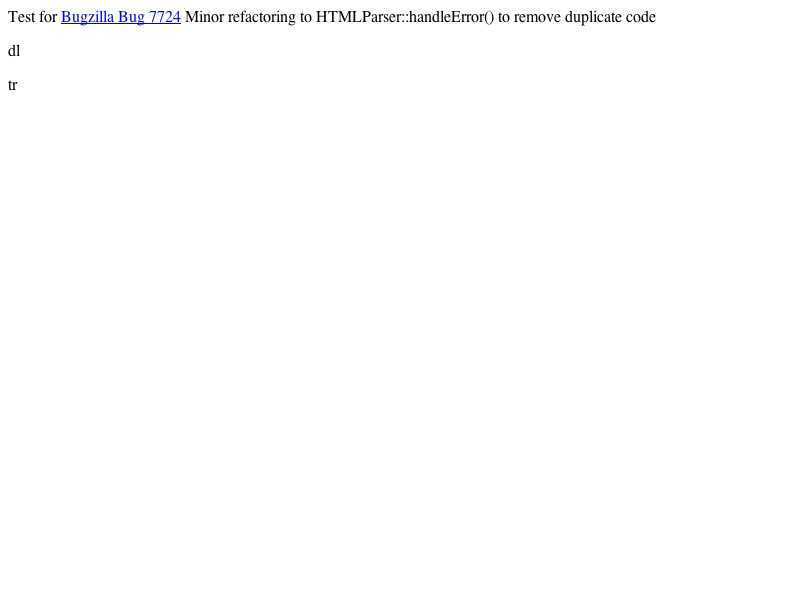
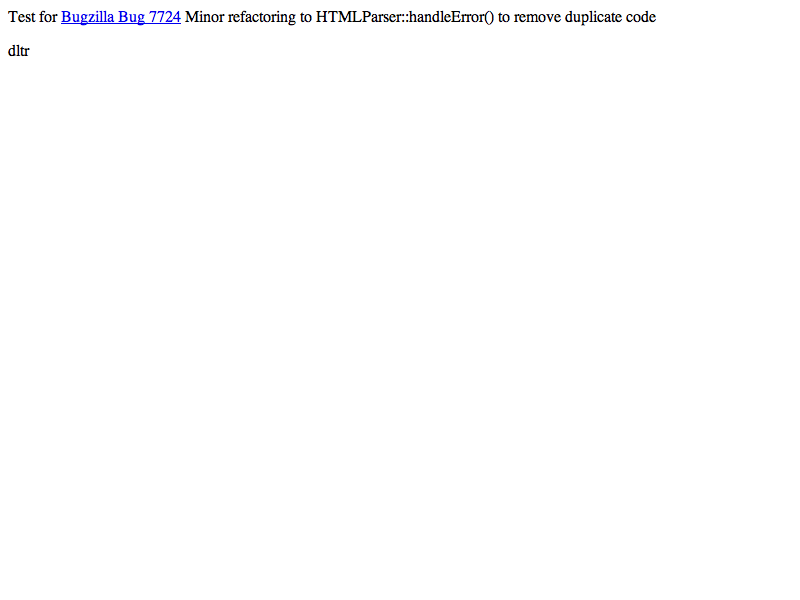
2008-09-02  Robert Blaut  <webkit@blaut.biz>
Reviewed by Geoff Garen.

        Fix for <https://bugs.webkit.org/show_bug.cgi?id=16913>
        Misplaced elements should not close DL lists.

        Test: fast/invalid/test-case-tr-th-td-should-not-close-dl-list.html

        * html/HTMLParser.cpp:
        (WebCore::HTMLParser::handleError):

2008-09-02  Robert Blaut  <webkit@blaut.biz>

        Reviewed by Geoff Garen.

        Test for <https://bugs.webkit.org/show_bug.cgi?id=16913>
        Misplaced elements should not close DL lists.

        * fast/invalid/test-case-tr-th-td-should-not-close-dl-list-expected.txt: Added.
        * fast/invalid/test-case-tr-th-td-should-not-close-dl-list.html: Added.
        * platform/mac/fast/invalid/missing-dl-end-tag-expected.checksum:
        * platform/mac/fast/invalid/missing-dl-end-tag-expected.png:
        * platform/mac/fast/invalid/missing-dl-end-tag-expected.txt:
        * platform/mac/fast/invalid/missing-dt-end-tag-expected.checksum:
        * platform/mac/fast/invalid/missing-dt-end-tag-expected.png:
        * platform/mac/fast/invalid/missing-dt-end-tag-expected.txt:

Identifier: 28452@main
git-svn-id: https://svn.webkit.org/repository/webkit/trunk@36051 268f45cc-cd09-0410-ab3c-d52691b4dbfc

Changed region(s): [[0.0, 0.0, 0.8125, 0.06], [0.0, 0.12, 0.0312, 0.15], [0.0, 0.06, 0.0312, 0.09]]

diff --git a/LayoutTests/fast/invalid/test-case-tr-th-td-should-not-close-dl-list.html b/LayoutTests/fast/invalid/test-case-tr-th-td-should-not-close-dl-list.html
@@ -1,0 +1,27 @@
+<!doctype html>
+<html>
+<script>
+     if (window.layoutTestController)
+         layoutTestController.dumpAsText();
+</script>
+<style type="text/css">
+    dt > p, dl > p { background-color: lime; outline: 1px solid lime; }
+</style>
+<body>
+<p>Test for <a href="https://bugs.webkit.org/show_bug.cgi?id=16913">bug 16913</a>:
+TR, TH, TD elements incorrectly closes DL list</p>
+<p>There should be two green bars below.</p>
+
+<dt><tr><p>test
+<dl><tr><p>test
+<script>
+for (var i = 2; i <= 3; i++) {
+    var x = document.getElementsByTagName("p")[i];
+
+    if (document.defaultView.getComputedStyle(x, null).getPropertyValue("outline-style") == "solid")
+        document.write("<div>PASSED.</div>");
+    else
+        document.write("<div>FAILED.</div>");
+}
+</script>
+</html>

diff --git a/WebCore/html/HTMLParser.cpp b/WebCore/html/HTMLParser.cpp
@@ -520,8 +520,8 @@ bool HTMLParser::handleError(Node* n, bool flat, const AtomicString& localName, 
                 } else
                     reportError(MisplacedFramesetContentError, &localName);
             }
-        } else if (h->hasLocalName(addressTag) || h->hasLocalName(dlTag) || h->hasLocalName(dtTag)
-                   || h->hasLocalName(fontTag) || h->hasLocalName(styleTag) || h->hasLocalName(titleTag)) {
+        } else if (h->hasLocalName(addressTag) || h->hasLocalName(fontTag)
+                   || h->hasLocalName(styleTag) || h->hasLocalName(titleTag)) {
             reportError(MisplacedContentRetryError, &localName, &currentTagName);
             popBlock(currentTagName);
             handled = true;
